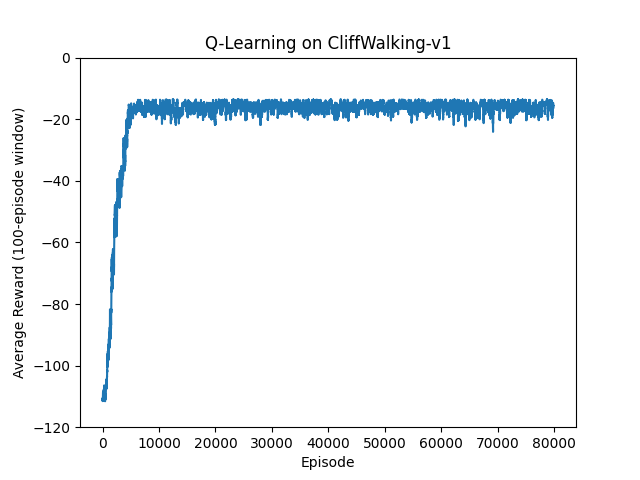
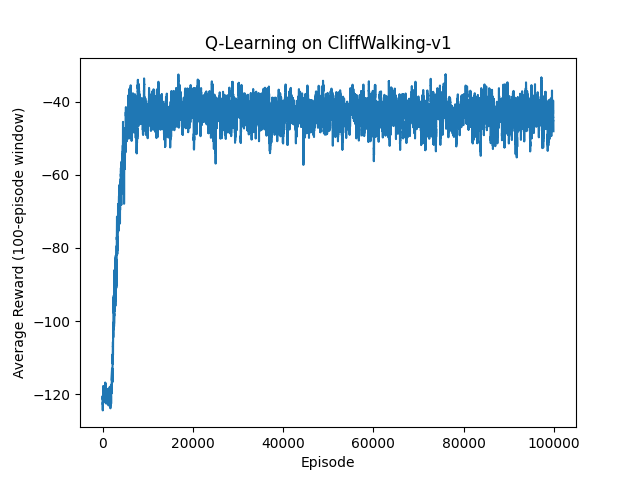
10_28 Added ASCII map to easily change environment

diff --git a/src/custom_envs.py b/src/custom_envs.py
@@ -2,95 +2,123 @@ import numpy as np
 import gymnasium as gym
 from gymnasium.envs.toy_text.cliffwalking import CliffWalkingEnv
 
+# 6x15 map, three straight vertical cliffs:
+# S = Start, G = Goal, C = Cliff
+# . = Safe floor
+# Change as needed for different layouts
+ASCII_MAP = [
+    ". . . . . . . C . . . . . . G",
+    ". . . C . . . C . . . C . . .",
+    ". . . C . . . C . . . C . . .",
+    ". . . C . . . C . . . C . . .",
+    ". . . C . . . C . . . C . . .",
+    "S . . C . . . . . . . C . . .",
+]
+ASCII_MAP = [row.replace(" ", "") for row in ASCII_MAP]
+
 class CustomCliffWalkingEnv(CliffWalkingEnv):
+    metadata = {"render_modes": ["rgb_array", "ansi"], "render_fps": 4}
 
-    def __init__(self, shape=(4, 12), cliff_coords=None, render_mode="rgb_array"):
+    def __init__(self, render_mode="rgb_array"):
         super().__init__(render_mode=render_mode)
-        self.shape = shape
-        nrow, ncol = self.shape
+        self.render_mode = render_mode
 
-        # Default L-shaped cliff if none custom provided
-        #(row_index, column_index)
-        #row_index = 0 at the top, nrow-1 at the bottom
-        #column_index = 0 at the left, ncol-1 at the right
-        
-        #Shift horizontal cliff up to row 2
-        #horiz = [(nrow - 2, c) for c in range(1, 8)]
+        # Parse map
+        self.rows = len(ASCII_MAP)
+        self.cols = len(ASCII_MAP[0])
 
+        self.cliff_coords = set()
+        self.start = None
+        self.goal = None
+        for r in range(self.rows):
+            for c in range(self.cols):
+                ch = ASCII_MAP[r][c]
+                if ch == "S":
+                    self.start = (r, c)
+                elif ch == "G":
+                    self.goal = (r, c)
+                elif ch == "C":
+                    self.cliff_coords.add((r, c))
+        if self.start is None or self.goal is None:
+            raise ValueError("ASCII_MAP must contain exactly one S and one G.")
 
-        #Move vertical cliff from (1,7) to (2,5)
-        #vert = [(r, 5) for r in range(nrow - 3, nrow)]
+        # Updated observation space to dynamically match custom map (not the base 4x12)
+        self.observation_space = gym.spaces.Discrete(self.rows * self.cols)
+        self.action_space = gym.spaces.Discrete(4)
 
-        if cliff_coords is None:
-            horiz = [(nrow - 1, c) for c in range(1, 8)]
-            vert = [(r, 7) for r in range(nrow - 3, nrow)]
-            self.cliff_coords = set(horiz + vert)
-        else:
-            self.cliff_coords = set(cliff_coords)
-        
-        # Create cliff boolean array
-        self._cliff = np.zeros((nrow, ncol), dtype=bool)
-        for r, c in self.cliff_coords:
-            self._cliff[r, c] = True
+        # Set initial state index
+        self.s = self.start[0] * self.cols + self.start[1]
 
-        self.start_state = (nrow - 1, 0)
-        self.goal_state = (0, ncol - 1)
-
-        self.nS = nrow * ncol
-        self.nA = 4
-
-        def to_state(r, c):
-            return r * ncol + c
-
-        self.P = {s: {a: [] for a in range(self.nA)} for s in range(self.nS)}
-
-        def next_state_reward_done(r, c, a):
-            if a == 0: r = max(r - 1, 0)
-            elif a == 1: c = min(c + 1, ncol - 1)
-            elif a == 2: r = min(r + 1, nrow - 1)
-            elif a == 3: c = max(c - 1, 0)
-
-            s2 = to_state(r, c)
-            goal = (r, c) == self.goal_state
-
-            if goal: reward, done = 0, True
-            elif (r, c) in self.cliff_coords:
-                reward, done = -100, True
-            else:
-                reward, done = -1, False
-
-            return s2, reward, done
-
-        for r in range(nrow):
-            for c in range(ncol):
-                s = to_state(r, c)
-                for a in range(self.nA):
-                    ns, rew, done = next_state_reward_done(r, c, a)
-                    self.P[s][a] = [(1.0, ns, rew, done)]
-
-        self.observation_space = gym.spaces.Discrete(self.nS)
-        self.action_space = gym.spaces.Discrete(self.nA)
-
-        self.s = to_state(*self.start_state)
+        # Colors for rgb render
+        self.cell = 50
+        self.color_floor = (220, 220, 220)
+        self.color_cliff = (60, 0, 0)
+        self.color_start = (0, 200, 0)
+        self.color_goal = (255, 215, 0)
+        self.color_agent = (0, 0, 255)
 
     def reset(self, *, seed=None, options=None):
         super().reset(seed=seed)
-        nrow, ncol = self.shape
-        self.s = (nrow - 1) * ncol + 0
+        self.s = self.start[0] * self.cols + self.start[1]
         return self.s, {}
 
     def step(self, action):
-        transition = self.P[self.s][action][0]
-        _, s2, reward, done = transition
+        # Convert integer state to grid position
+        r, c = divmod(self.s, self.cols)
 
-        if reward == -100:
-            # Fall off cliff -> next timestep reset to start
-            self.s = (self.shape[0] - 1) * self.shape[1] + 0
-        else:
-            self.s = s2
+        # Movement logic
+        if action == 0:   # up
+            r -= 1
+        elif action == 1: # right
+            c += 1
+        elif action == 2: # down
+            r += 1
+        elif action == 3: # left
+            c -= 1
 
-        return self.s, reward, done, False, {}
-    
-    
+        # Clamp to edges
+        r = max(0, min(self.rows - 1, r))
+        c = max(0, min(self.cols - 1, c))
 
+        # Goal check
+        if (r, c) == self.goal:
+            self.s = r * self.cols + c
+            return self.s, 0, True, False, {}
+        # Cliff check
+        if (r, c) in self.cliff_coords:
+            self.s = self.start[0] * self.cols + self.start[1]
+            return self.s, -100, True, False, {}
+        
+        # Regular step
+        self.s = r * self.cols + c
+        return self.s, -1, False, False, {}
 
+    def render(self):
+        if self.render_mode == "ansi":
+            grid = [list(row) for row in ASCII_MAP]
+            ar, ac = divmod(self.s, self.cols)
+            if (ar, ac) not in self.cliff_coords and (ar, ac) != self.goal:
+                grid[ar][ac] = "A"
+            return "\n".join(" ".join(row) for row in grid)
+
+        # rgb_array
+        img = np.full((self.rows * self.cell, self.cols * self.cell, 3),
+                      self.color_floor, dtype=np.uint8)
+
+        # Cliffs
+        for r, c in self.cliff_coords:
+            img[r*self.cell:(r+1)*self.cell, c*self.cell:(c+1)*self.cell] = self.color_cliff
+
+        # Start
+        sr, sc = self.start
+        img[sr*self.cell:(sr+1)*self.cell, sc*self.cell:(sc+1)*self.cell] = self.color_start
+
+        # Goal
+        gr, gc = self.goal
+        img[gr*self.cell:(gr+1)*self.cell, gc*self.cell:(gc+1)*self.cell] = self.color_goal
+
+        # Agent
+        ar, ac = divmod(self.s, self.cols)
+        img[ar*self.cell:(ar+1)*self.cell, ac*self.cell:(ac+1)*self.cell] = self.color_agent
+
+        return img

diff --git a/src/main.py b/src/main.py
@@ -22,7 +22,7 @@ def parse_args():
     parser.add_argument("--decay-rate", type=float, default=0.9995)
     parser.add_argument("--min-eps", type=float, default=0.05)
     parser.add_argument("--env", type=str, default="CliffWalking-v1")
-    parser.add_argument("--num-episodes", type=int, default=80000)
+    parser.add_argument("--num-episodes", type=int, default=100000)
     parser.add_argument("--num-videos", type=int, default=1, help="# of videos to save")
     return parser.parse_args()
 
@@ -51,15 +51,12 @@ def train(env, agent : QLearningAgent, num_episodes=100000):
 def eval_video(env, agent, video_save_path, num_videos):
     agent = copy.deepcopy(agent)
     agent.epsilon = 0.0
-
-    from gymnasium.wrappers import RecordVideo
     venv = RecordVideo(
         env,
         video_folder=video_save_path,
         name_prefix="eval",
         episode_trigger=lambda ep: True,
     )
-
     for _ in range(num_videos):
         state, _ = venv.reset()
         terminated = truncated = False
@@ -81,8 +78,8 @@ def main():
     # env = gym.make(args.env, render_mode="rgb_array")
 
     # Added custom cliff layout and step limit
-    # env = CustomCliffWalkingEnv(shape=(4, 12), render_mode="rgb_array")
-    env = CustomCliffWalkingEnv(shape=(4, 12), render_mode="ansi")
+    env = CustomCliffWalkingEnv(render_mode="rgb_array")
+    # env = CustomCliffWalkingEnv(render_mode="ansi")
     env = gym.wrappers.TimeLimit(env, max_episode_steps=100)
     state, info = env.reset()
     
@@ -93,7 +90,7 @@ def main():
     #plt.show()
 
     # Visualize the environment if render_mode is set to "ansi"
-    print(env.render())
+    # print(env.render())
 
     agent = QLearningAgent(
         env,
@@ -109,11 +106,11 @@ def main():
     os.makedirs(video_dir, exist_ok=True)
     
     eval_video(env, agent, video_dir, num_videos=args.num_videos)
-    submit_video(video_dir)
     plot_learning_curve(rewards, os.path.join(output_dir, "plot.png"))
-    
-    shutil.rmtree(video_dir)
-    
+
+    print("\nEvaluation video saved to:", os.path.abspath(video_dir))
+    print("Learning curve saved to:", os.path.abspath(os.path.join(output_dir, 'plot.png')))
+        
 if __name__ == "__main__":
     main()
 

diff --git a/src/utils.py b/src/utils.py
@@ -7,7 +7,7 @@ import os
 def plot_learning_curve(rewards, save_path):
     plt.plot(np.convolve(rewards, np.ones(100)/100, mode='valid'))
     # Trim the y-axis to focus on relevant reward range
-    plt.ylim(-120, 0)
+    # plt.ylim(-120, 0)
     plt.xlabel("Episode")
     plt.ylabel("Average Reward (100-episode window)")
     # Change the plot title if necessary
